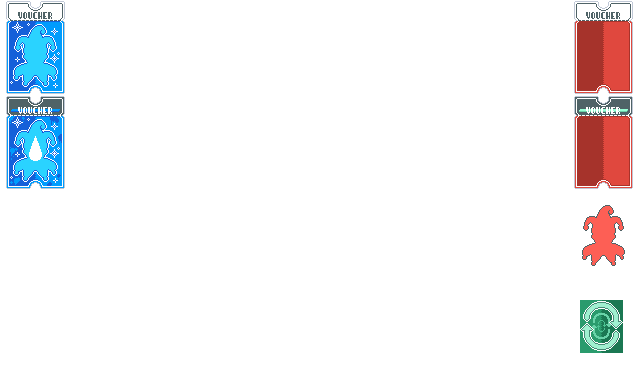
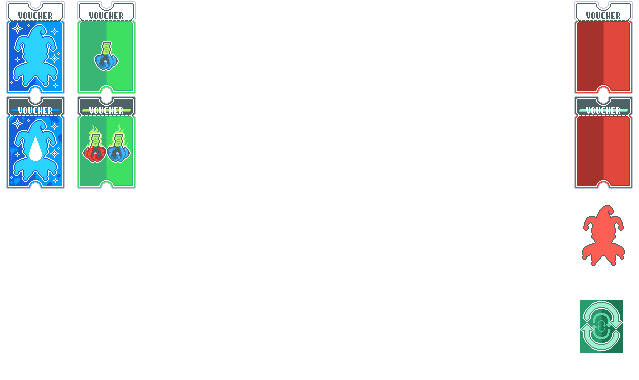
Add Handy and Hoarder vouchers

Changed region(s): [[0.1189, 0.0, 0.2379, 0.5211], [0.0, 0.3184, 0.0297, 0.3474], [0.0, 0.0579, 0.0297, 0.0868]]

diff --git a/web/addjokers.js b/web/addjokers.js
@@ -1248,6 +1248,22 @@ let shop_items = [
     image_url: "img/v/blue_blood.png",
     rarity: "Voucher"
   },
+  {
+    name: "Handy",
+    text: [
+      "Earn {C:money}$1{} more per remaining {C:blue}Hand",
+    ],
+    image_url: "img/v/handy.png",
+    rarity: "Voucher"
+  },
+  {
+    name: "Hoarder",
+    text: [
+      "Earn {C:money}$1{} more per remaining {C:red}Discard",
+    ],
+    image_url: "img/v/hoarder.png",
+    rarity: "Voucher"
+  },
 ]
 
 let cols = {
